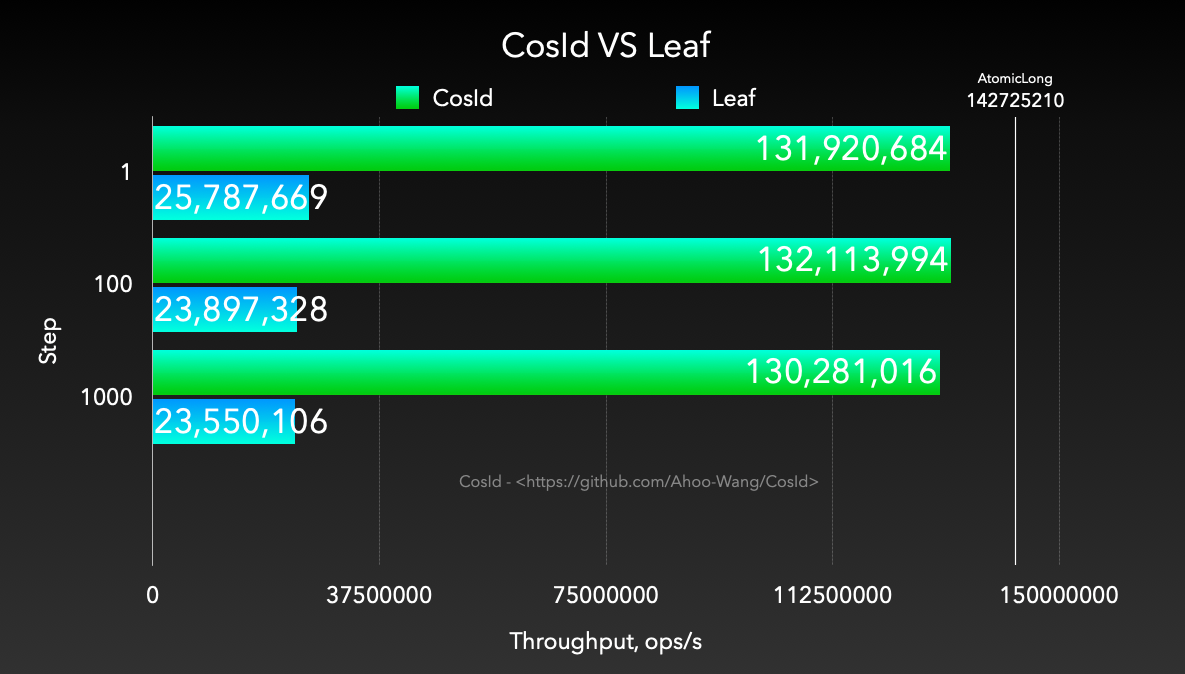
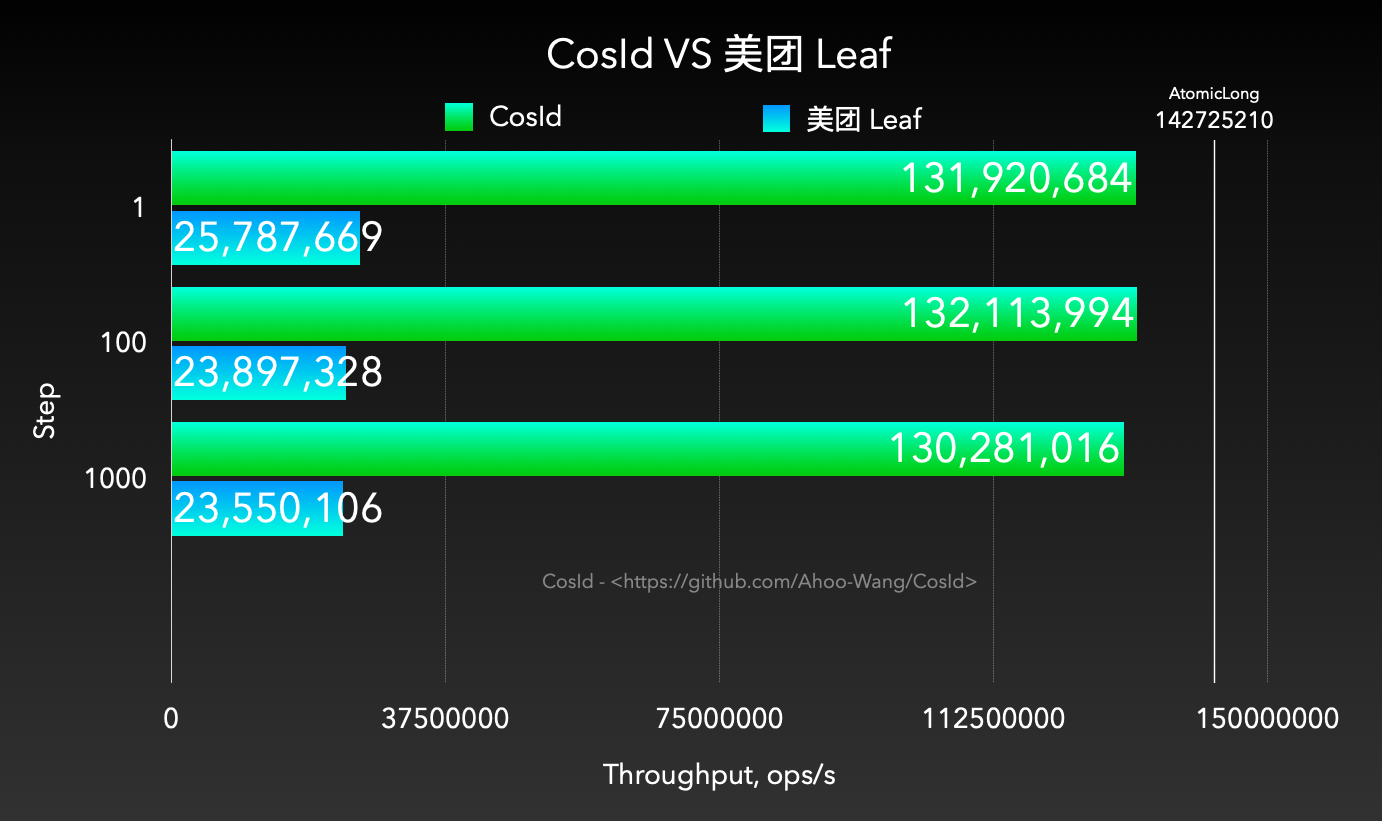
doc: update Performance-CosId-Leaf

diff --git a/document/docs/guide/Performance-CosId-Leaf.md b/document/docs/guide/Performance-CosId-Leaf.md
@@ -53,6 +53,6 @@ LeafBenchmark.generate          1000  thrpt        23550106.538          ops/s
 
 ## 结论
 
-1. CosId 性能优于 Leaf，CosId 性能是 Leaf 的 5 倍左右。
+1. CosId (`SegmentChainId`) 性能是 Leaf (`segment`) 的 5 倍。
 2. CosId 、Leaf 的性能与号段步长(Step) 无关。
 3. CosId TPS 基本接近 `AtomicLong` 。

diff --git a/README.md b/README.md
@@ -712,6 +712,8 @@ SnowflakeIdBenchmark.secondSnowflakeId_generate             thrpt       4206843.
 
 ### CosId VS MeiTuan Leaf
 
+> CosId (`SegmentChainId`) is 5 times faster than Leaf(`segment`).
+
 <p align="center" >
   <img  src="./document/docs/.vuepress/public/assets/perf/CosId-VS-Leaf.png" alt="CosId VS MeiTuan Leaf"/>
 </p>

diff --git a/README.zh-CN.md b/README.zh-CN.md
@@ -359,6 +359,8 @@ spring:
 
 ### CosId VS 美团 Leaf
 
+> CosId (`SegmentChainId`) 性能是 Leaf(`segment`) 的 5 倍。
+
 <p align="center" >
   <img  src="./document/docs/.vuepress/public/assets/perf/CosId-VS-Leaf.png" alt="CosId VS 美团 Leaf"/>
 </p>
